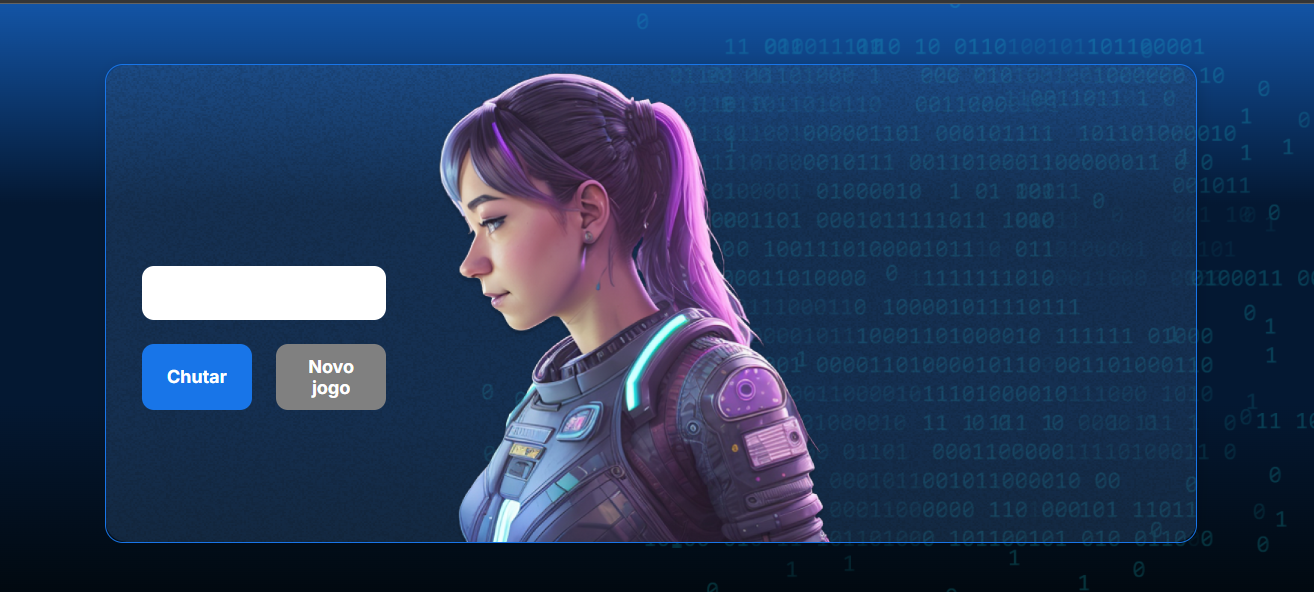
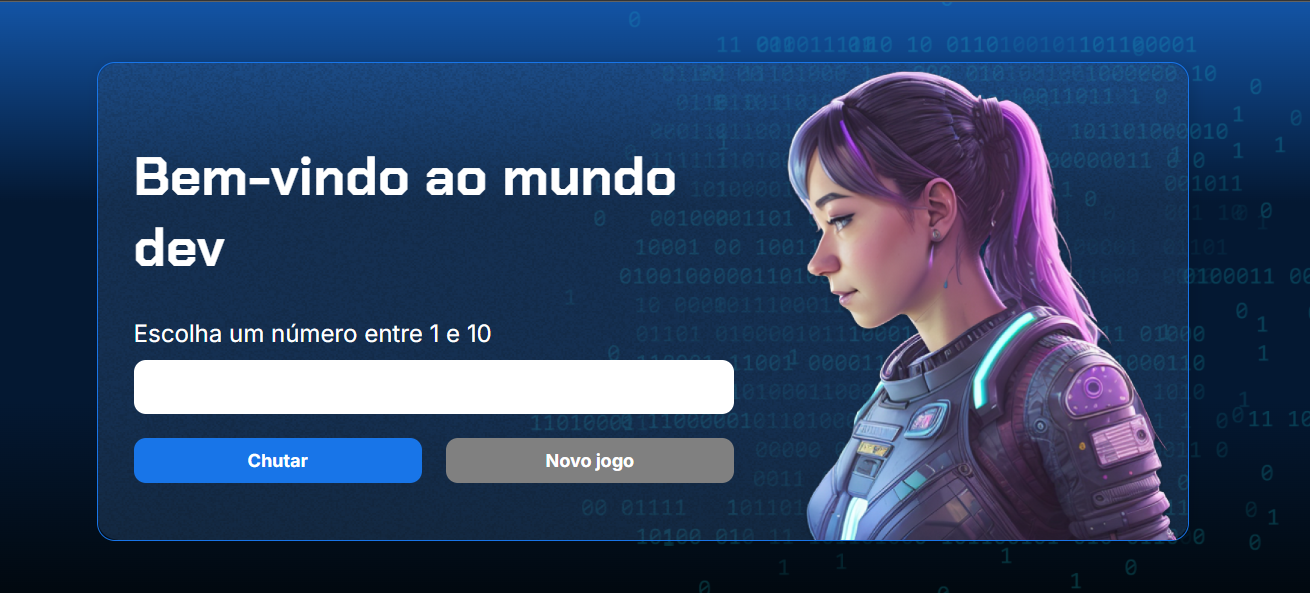
Evoluimos para as funções com parâmetros

diff --git a/app.js b/app.js
@@ -1,8 +1,10 @@
-let titulo = document.querySelector('h1');
-titulo.innerHTML = 'Jogo do número secreto';
+function exibirTextoNaTela(tag, texto){
+    let campo = document.querySelector(tag)
+    campo.innerHTML = texto
+}
 
-let paragrafo = document.querySelector('p');
-paragrafo.innerHTML = ('Escolha um número entre 1 e 10');
+exibirTextoNaTela('h1', 'Jogo do núemro secreto');
+exibirTextoNaTela('p', 'Escolha um número entre 1 e 10');
 
 
 function verificarChute(){
